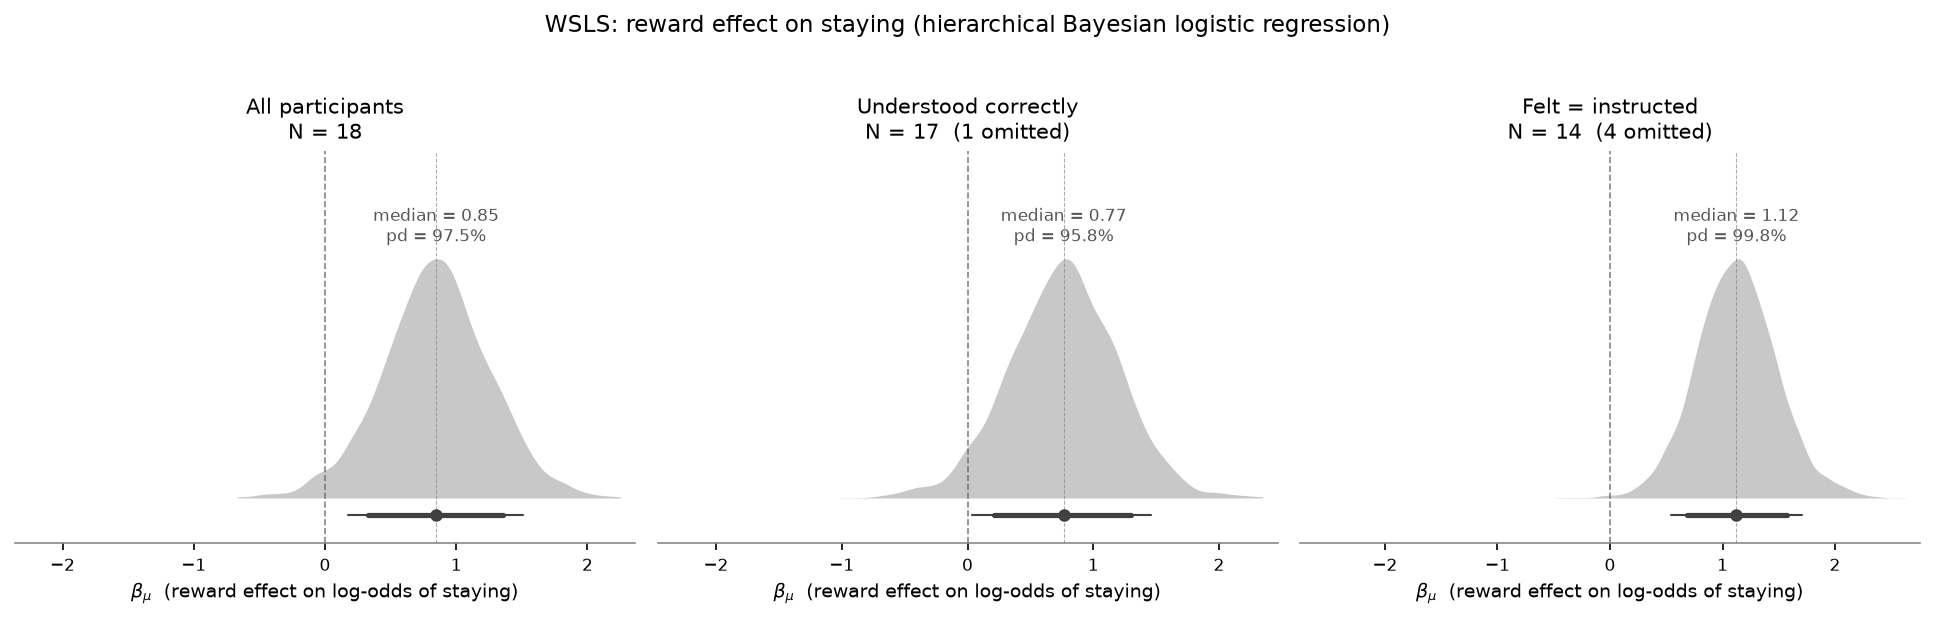
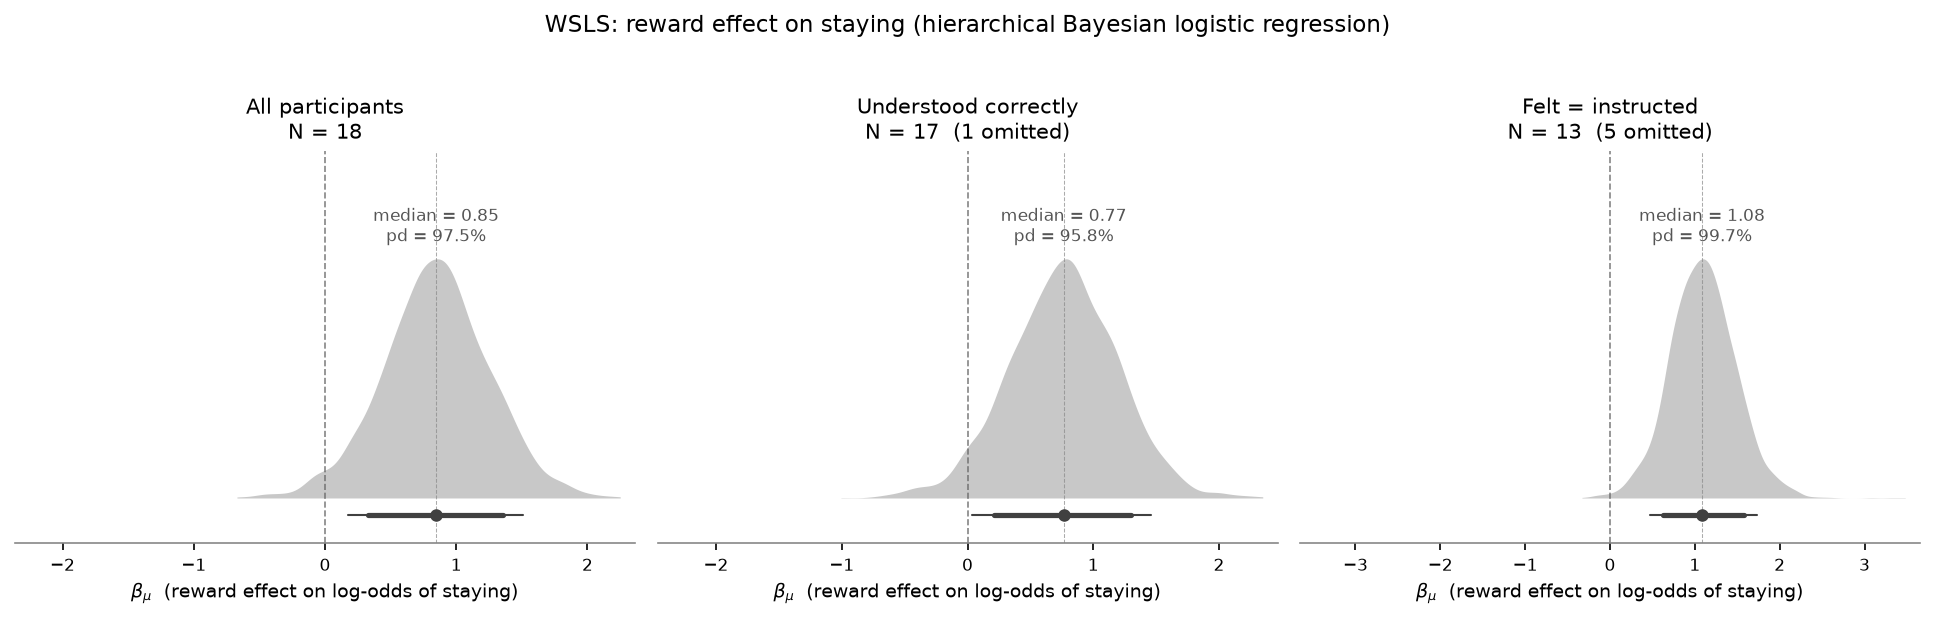
Fix WSLS panel 3 to N=13 (exclude misunderstood subject); add slope posterior panel to WM-WSLS scatter

diff --git a/analysis/wm_wsls/wm_wsls.py b/analysis/wm_wsls/wm_wsls.py
@@ -171,71 +171,45 @@ def fit_regression(wsls_beta, wm_k):
     return idata, wm_k_z
 
 
-# ── 5. scatter plot ──────────────────────────────────────────────────────────
+# ── 5. figure: scatter + slope posterior ─────────────────────────────────────
 def scatter_plot(wm_k, wsls_beta, colors, idata, wm_k_z):
-    fig, ax = plt.subplots(figsize=(5, 5))
-
-    # plot points coloured by understood_eq_felt
-    for i in range(len(wm_k)):
-        ax.scatter(wm_k[i], wsls_beta[i],
-                   color=colors[i], s=40, alpha=0.85, zorder=3)
-
-    # --- Bayesian regression posterior predictive band ---
     slope_draws     = idata.posterior["slope"].values.flatten()
     intercept_draws = idata.posterior["intercept"].values.flatten()
-    wm_k_std = np.std(wm_k)
+    wm_k_std  = np.std(wm_k)
     wm_k_mean = np.mean(wm_k)
+    slope_raw_draws = slope_draws / wm_k_std   # back to original (per-K-unit) scale
 
-    x_grid_z = np.linspace(wm_k_z.min(), wm_k_z.max(), 200)
-    x_grid   = x_grid_z * wm_k_std + wm_k_mean
+    fig, (ax_sc, ax_post) = plt.subplots(1, 2, figsize=(10, 4.5))
+
+    # ── left panel: scatter ───────────────────────────────────────────────────
+    for i in range(len(wm_k)):
+        ax_sc.scatter(wm_k[i], wsls_beta[i],
+                      color=colors[i], s=45, alpha=0.85, zorder=3)
+
+    # posterior predictive band
+    x_lo = 0.0
+    x_hi = wm_k.max() * 1.05
+    x_grid   = np.linspace(x_lo, x_hi, 200)
+    x_grid_z = (x_grid - wm_k_mean) / wm_k_std
 
     y_grid = (intercept_draws[:, None]
               + slope_draws[:, None] * x_grid_z[None, :])
     y_lo, y_med, y_hi = np.quantile(y_grid, [0.05, 0.50, 0.95], axis=0)
 
-    ax.fill_between(x_grid, y_lo, y_hi, color="#56B4E9", alpha=0.25, zorder=1)
-    ax.plot(x_grid, y_med, color="#0072B2", linewidth=1.5, zorder=2,
-            label="Bayesian trend (90% CI)")
+    ax_sc.fill_between(x_grid, y_lo, y_hi, color="#56B4E9", alpha=0.25, zorder=1)
+    ax_sc.plot(x_grid, y_med, color="#0072B2", linewidth=1.5, zorder=2)
 
-    # --- equal-length axes (plot-scatter skill: coord_fixed equivalent) ---
-    xmin, xmax = wm_k.min(), wm_k.max()
-    ymin, ymax = wsls_beta.min(), wsls_beta.max()
-    shared_lo = min(xmin, ymin) - 0.15
-    shared_hi = max(xmax, ymax) + 0.15
-    ax.set_xlim(shared_lo, shared_hi)
-    ax.set_ylim(shared_lo, shared_hi)
-    ax.set_aspect("equal")
+    # axes
+    y_pad = (wsls_beta.max() - wsls_beta.min()) * 0.12
+    ax_sc.set_xlim(x_lo, x_hi)
+    ax_sc.set_ylim(wsls_beta.min() - y_pad, wsls_beta.max() + y_pad)
 
-    # --- identity line (dashed grey, per skill) ---
-    ax.axline((shared_lo, shared_lo), slope=1,
-              color="grey", linestyle="--", linewidth=0.8, alpha=0.7, zorder=0)
+    # Pearson r (top-right)
+    r, _ = pearsonr(wm_k, wsls_beta)
+    ax_sc.annotate(f"Pearson r = {r:.2f}",
+                   xy=(0.97, 0.97), xycoords="axes fraction",
+                   ha="right", va="top", fontsize=8.5, color="#555555")
 
-    # --- Pearson r annotation (top-right) ---
-    r, p = pearsonr(wm_k, wsls_beta)
-    ax.annotate(f"[Pearson r = {r:.2f}]",
-                xy=(1.0, 1.0), xycoords="axes fraction",
-                xytext=(-8, -8), textcoords="offset points",
-                ha="right", va="top", fontsize=8, color="#555555")
-
-    # --- posterior slope annotation ---
-    slope_raw_draws = slope_draws / np.std(wm_k)  # back to original units
-    slope_med = float(np.median(slope_raw_draws))
-    ci90 = np.quantile(slope_raw_draws, [0.05, 0.95])
-    pd_val = max(np.mean(slope_raw_draws > 0),
-                 np.mean(slope_raw_draws < 0)) * 100
-    ax.annotate(f"slope = {slope_med:.2f} [{ci90[0]:.2f}, {ci90[1]:.2f}]\npd = {pd_val:.1f}%",
-                xy=(0.03, 0.97), xycoords="axes fraction",
-                ha="left", va="top", fontsize=7.5, color="#333333",
-                bbox=dict(boxstyle="round,pad=0.3", fc="white", ec="none", alpha=0.7))
-
-    # --- tick marks: 4 ticks per axis ---
-    ticks = np.linspace(shared_lo, shared_hi, 4)
-    ax.set_xticks(ticks)
-    ax.set_yticks(ticks)
-    ax.xaxis.set_major_formatter(plt.FormatStrFormatter("%.1f"))
-    ax.yaxis.set_major_formatter(plt.FormatStrFormatter("%.1f"))
-
-    # --- legend for understood_eq_felt ---
     from matplotlib.lines import Line2D
     legend_els = [
         Line2D([0], [0], marker="o", color="w", markerfacecolor=COL_YES,
@@ -243,13 +217,51 @@ def scatter_plot(wm_k, wsls_beta, colors, idata, wm_k_z):
         Line2D([0], [0], marker="o", color="w", markerfacecolor=COL_NO,
                markersize=7, label="understood ≠ felt (n=5)"),
     ]
-    ax.legend(handles=legend_els, fontsize=7.5, loc="lower right",
-              framealpha=0.8, edgecolor="none")
+    ax_sc.legend(handles=legend_els, fontsize=7.5, loc="lower left",
+                 framealpha=0.8, edgecolor="none")
 
-    ax.set_xlabel("Working memory capacity (K)", fontsize=10)
-    ax.set_ylabel(r"WSLS reward effect ($\beta_j$, log-odds)", fontsize=10)
-    ax.tick_params(labelsize=8)
-    ax.spines[["top", "right"]].set_visible(False)
+    ax_sc.set_xlabel("Working memory capacity (K)", fontsize=10)
+    ax_sc.set_ylabel(r"WSLS reward effect ($\beta_j$, log-odds)", fontsize=10)
+    ax_sc.tick_params(labelsize=8)
+    ax_sc.spines[["top", "right"]].set_visible(False)
+
+    # ── right panel: slope posterior ─────────────────────────────────────────
+    kde  = gaussian_kde(slope_raw_draws, bw_method="scott")
+    xs   = np.linspace(slope_raw_draws.min() * 1.15, slope_raw_draws.max() * 1.15, 512)
+    ys   = kde(xs)
+    ys   = ys / ys.max()
+
+    ax_post.fill_between(xs, ys, color="#c8c8c8", linewidth=0)
+    ax_post.axvline(0, color="#666666", linestyle="--", linewidth=0.9, alpha=0.8)
+
+    # CI bars
+    ci90 = np.quantile(slope_raw_draws, [0.05, 0.95])
+    ci80 = np.quantile(slope_raw_draws, [0.10, 0.90])
+    med  = float(np.median(slope_raw_draws))
+    CI_Y = -0.08
+    ax_post.plot([ci90[0], ci90[1]], [CI_Y, CI_Y],
+                 color="#404040", linewidth=1.0, solid_capstyle="round")
+    ax_post.plot([ci80[0], ci80[1]], [CI_Y, CI_Y],
+                 color="#404040", linewidth=2.5, solid_capstyle="round")
+    ax_post.plot(med, CI_Y, "o", color="#404040", markersize=5, zorder=5)
+    ax_post.axvline(med, color="#888888", linestyle="--", linewidth=0.5, alpha=0.7)
+
+    pd_val = max(np.mean(slope_raw_draws > 0),
+                 np.mean(slope_raw_draws < 0)) * 100
+    ax_post.text(med, 1.22,
+                 f"median = {med:.2f}\npd = {pd_val:.1f}%",
+                 ha="center", va="top", fontsize=8, color="#555555")
+
+    max_abs = max(abs(slope_raw_draws.min()), abs(slope_raw_draws.max())) * 1.1
+    ax_post.set_xlim(-max_abs, max_abs)
+    ax_post.set_ylim(CI_Y - 0.15, 1.5)
+
+    ax_post.set_xlabel(r"Slope (WSLS $\beta$ per K unit)", fontsize=10)
+    ax_post.spines[["top", "right", "left"]].set_visible(False)
+    ax_post.yaxis.set_visible(False)
+    ax_post.spines["bottom"].set_color("#888888")
+    ax_post.tick_params(axis="x", labelsize=8)
+    ax_post.set_title("Slope posterior\n(Bayesian linear regression)", fontsize=10, pad=6)
 
     plt.tight_layout()
     plt.savefig(OUT_PNG, dpi=150, bbox_inches="tight")

diff --git a/analysis/wsls_belief_subgroups/wsls_three_panels.py b/analysis/wsls_belief_subgroups/wsls_three_panels.py
@@ -51,9 +51,9 @@ GROUPS = [
     {
         "label":    "Felt = instructed",
         "n_total":  18,
-        "n_omit":   4,
-        "exclude":  FELT_DIFFERENT,
-        "omit_note": "4 excluded (reported felt odds differed)",
+        "n_omit":   5,
+        "exclude":  FELT_DIFFERENT | MISUNDERSTOOD,
+        "omit_note": "5 excluded (felt odds differed or misreported instructions)",
     },
 ]
 
